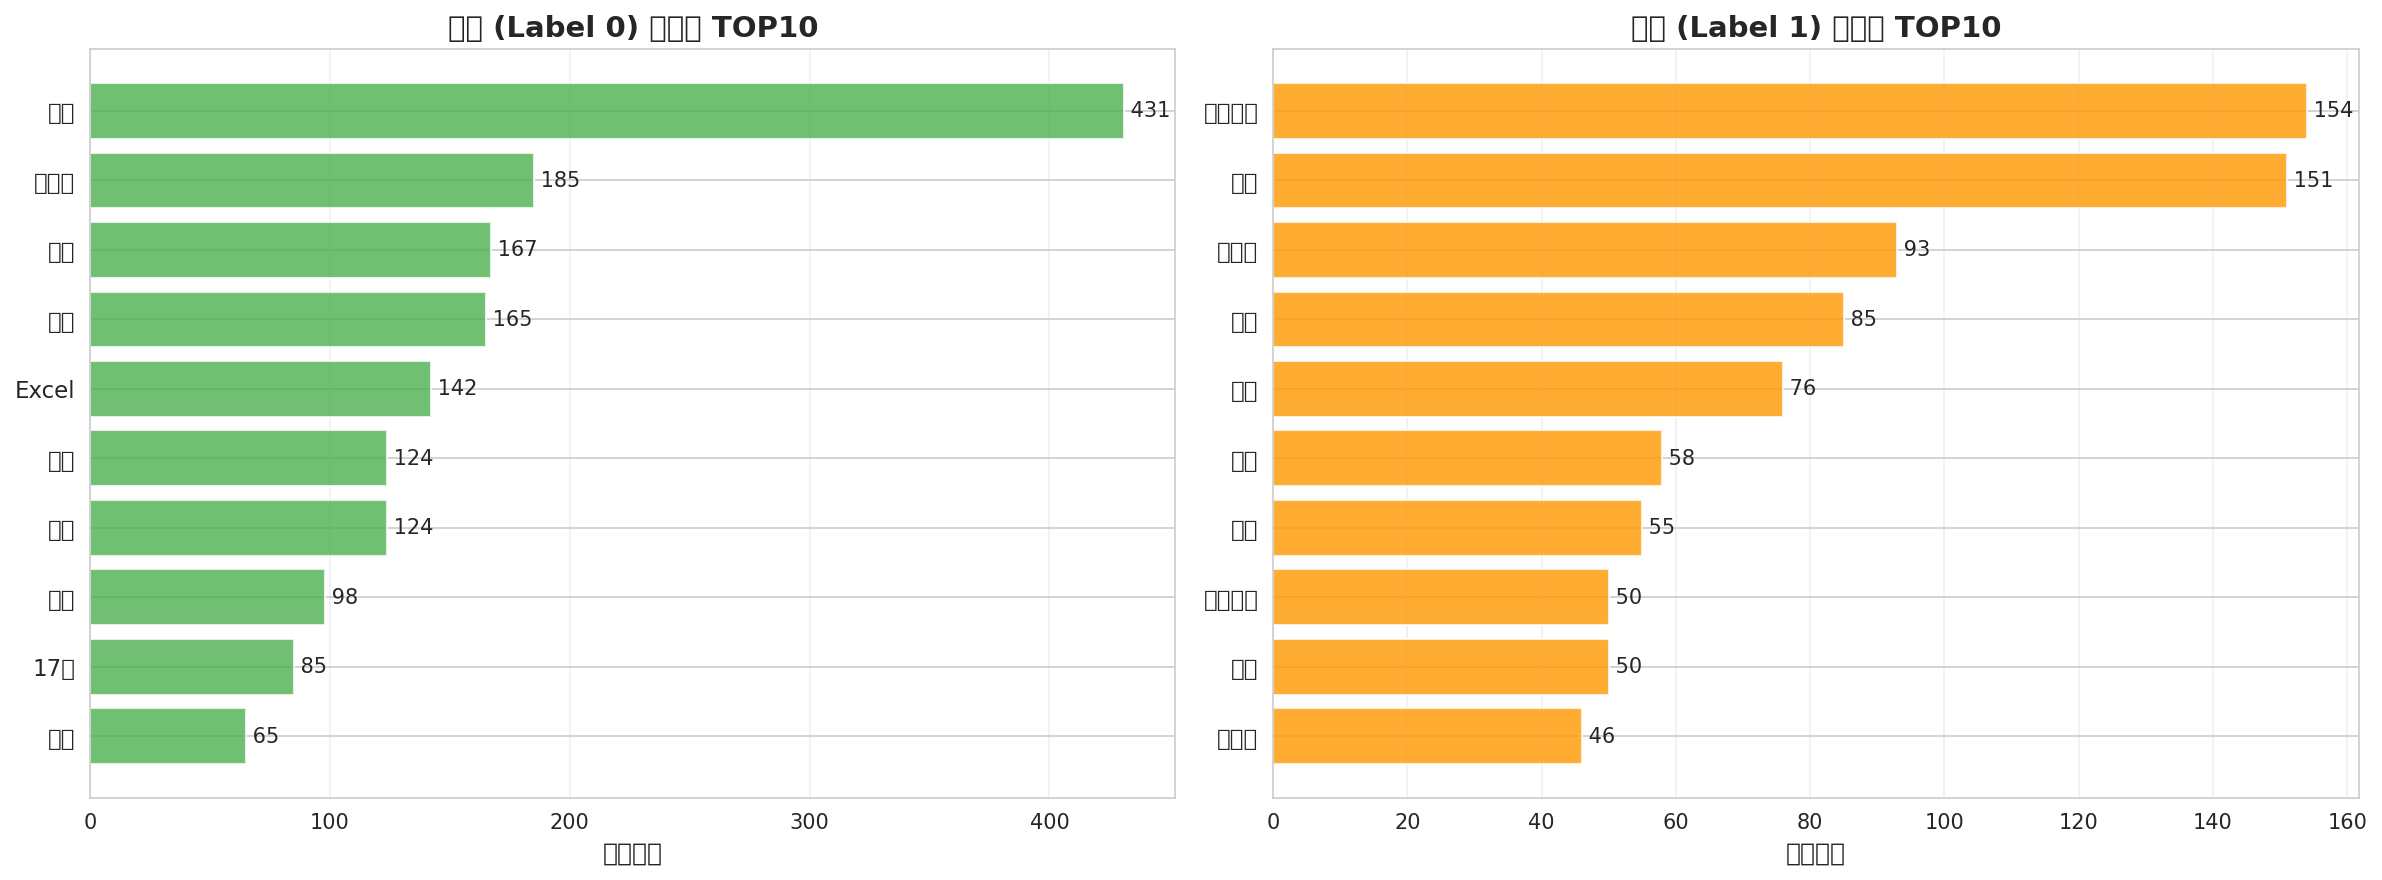
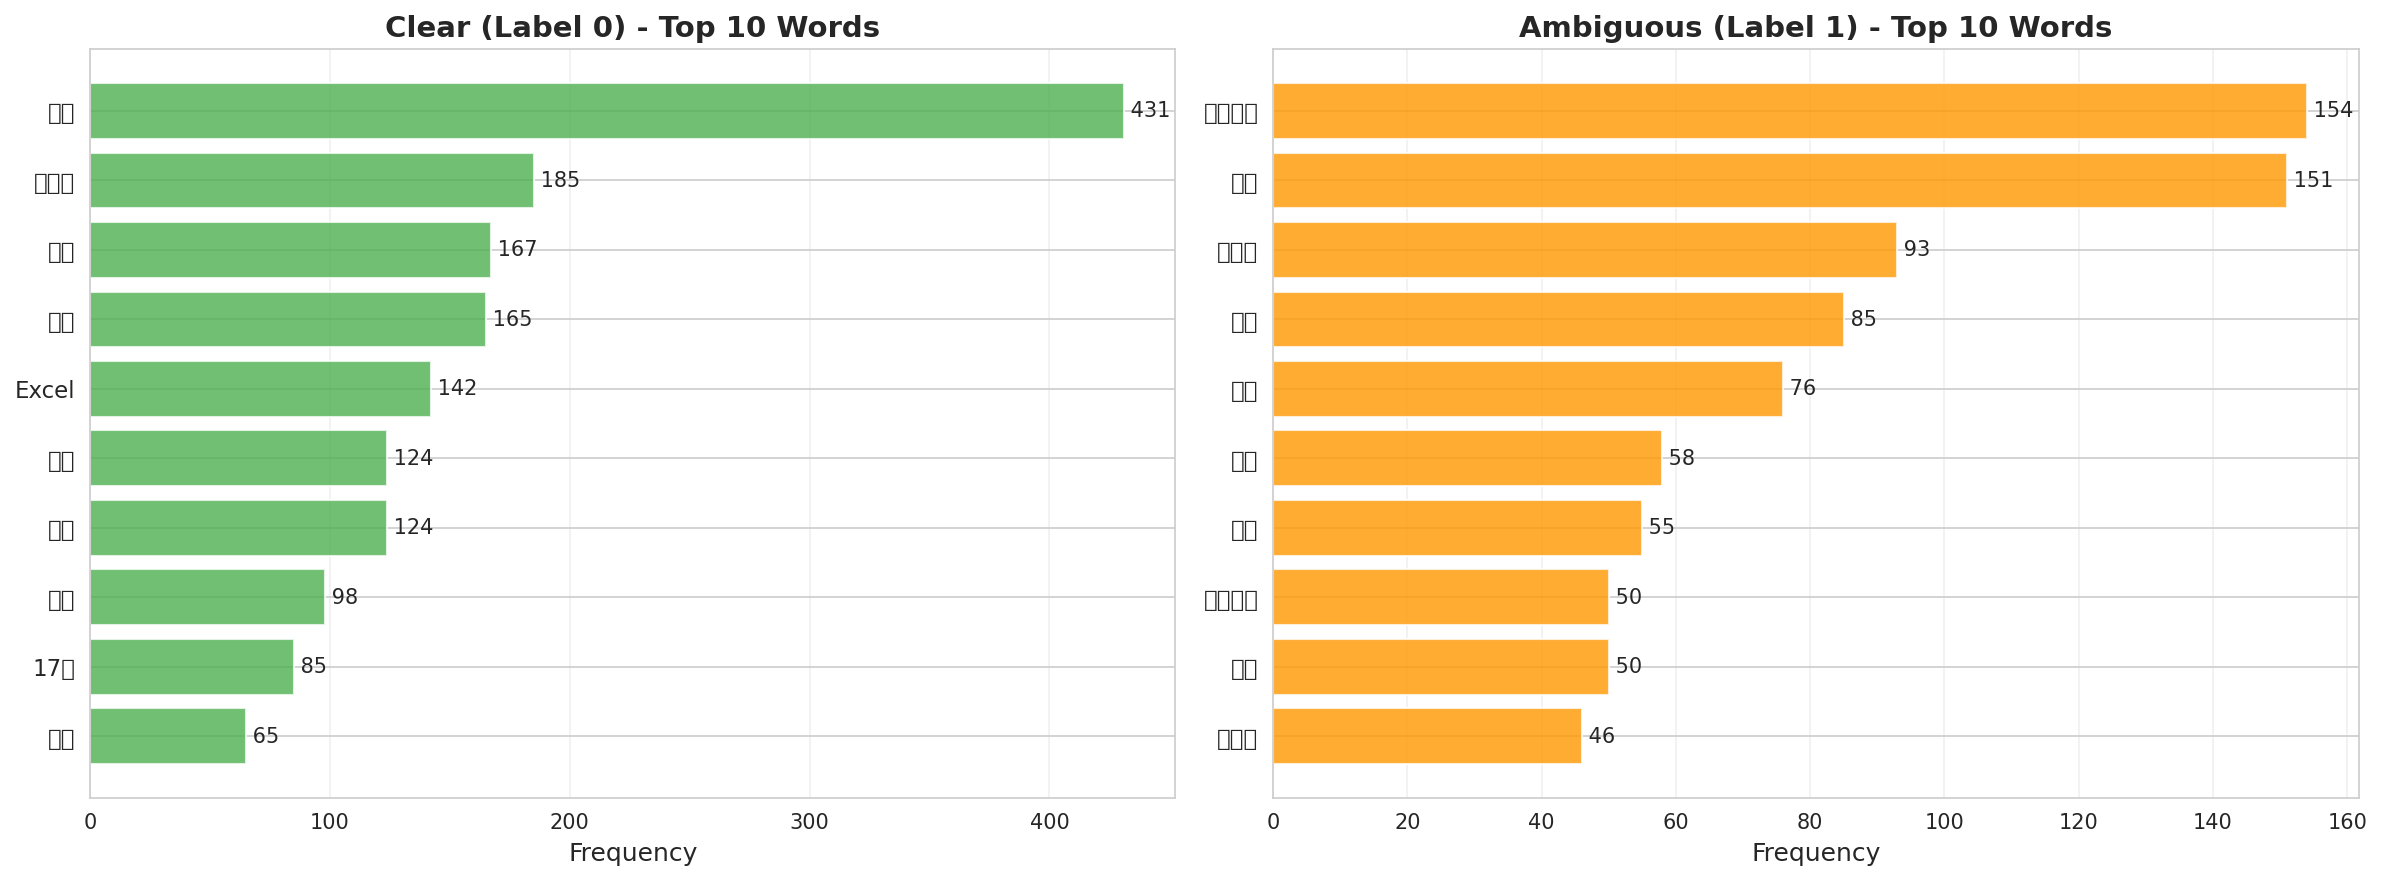
Fix: グラフを英語表示に変更して文字化けを解決
- すべてのグラフラベル・タイトルを英語に変更
- Clear (Label 0) / Ambiguous (Label 1) で表示
- 文字化けの問題を完全に解決
- DejaVu Sansフォントを使用

diff --git a/01_eda.py b/01_eda.py
@@ -11,14 +11,10 @@ from collections import Counter
 from transformers import BertJapaneseTokenizer
 import os
 
-# 日本語フォント設定
-plt.rcParams['font.family'] = 'Noto Sans CJK JP'
-plt.rcParams['font.sans-serif'] = ['Noto Sans CJK JP', 'DejaVu Sans']
-plt.rcParams['axes.unicode_minus'] = False  # マイナス記号の文字化け対策
-
 # Seabornのスタイル設定
 sns.set_style("whitegrid")
 plt.rcParams['figure.figsize'] = (12, 6)
+plt.rcParams['font.family'] = 'DejaVu Sans'
 
 # figuresフォルダの作成
 os.makedirs('figures', exist_ok=True)
@@ -55,12 +51,12 @@ def plot_label_distribution(data_dict):
         
         ax = axes[idx]
         colors = ['#4CAF50', '#FF9800']
-        bars = ax.bar(['明確 (Label 0)', '曖昧 (Label 1)'], 
+        bars = ax.bar(['Clear (Label 0)', 'Ambiguous (Label 1)'], 
                       [label_counts[0], label_counts[1]],
                       color=colors, alpha=0.8)
         
-        ax.set_ylabel('サンプル数', fontsize=12)
-        ax.set_title(f'{name.capitalize()} データセット\n(総数: {len(data)}件)', 
+        ax.set_ylabel('Number of Samples', fontsize=12)
+        ax.set_title(f'{name.capitalize()} Dataset\n(Total: {len(data)} samples)', 
                     fontsize=14, fontweight='bold')
         ax.grid(axis='y', alpha=0.3)
         
@@ -118,21 +114,21 @@ def analyze_text_length(data_dict):
     ax1 = axes[0, 0]
     for name, lengths in all_lengths.items():
         ax1.hist(lengths, bins=20, alpha=0.6, label=name.capitalize(), edgecolor='black')
-    ax1.set_xlabel('文字数', fontsize=12)
-    ax1.set_ylabel('頻度', fontsize=12)
-    ax1.set_title('データセット別 文字数分布', fontsize=14, fontweight='bold')
+    ax1.set_xlabel('Text Length (characters)', fontsize=12)
+    ax1.set_ylabel('Frequency', fontsize=12)
+    ax1.set_title('Text Length Distribution by Dataset', fontsize=14, fontweight='bold')
     ax1.legend()
     ax1.grid(axis='y', alpha=0.3)
     
     # 2. ラベル別の文字数分布
     ax2 = axes[0, 1]
-    ax2.hist(label_lengths[0], bins=20, alpha=0.6, label='明確 (Label 0)', 
+    ax2.hist(label_lengths[0], bins=20, alpha=0.6, label='Clear (Label 0)', 
             color='#4CAF50', edgecolor='black')
-    ax2.hist(label_lengths[1], bins=20, alpha=0.6, label='曖昧 (Label 1)', 
+    ax2.hist(label_lengths[1], bins=20, alpha=0.6, label='Ambiguous (Label 1)', 
             color='#FF9800', edgecolor='black')
-    ax2.set_xlabel('文字数', fontsize=12)
-    ax2.set_ylabel('頻度', fontsize=12)
-    ax2.set_title('ラベル別 文字数分布', fontsize=14, fontweight='bold')
+    ax2.set_xlabel('Text Length (characters)', fontsize=12)
+    ax2.set_ylabel('Frequency', fontsize=12)
+    ax2.set_title('Text Length Distribution by Label', fontsize=14, fontweight='bold')
     ax2.legend()
     ax2.grid(axis='y', alpha=0.3)
     
@@ -144,21 +140,21 @@ def analyze_text_length(data_dict):
     for patch in bp['boxes']:
         patch.set_facecolor('#2196F3')
         patch.set_alpha(0.6)
-    ax3.set_ylabel('文字数', fontsize=12)
-    ax3.set_title('データセット別 文字数の箱ひげ図', fontsize=14, fontweight='bold')
+    ax3.set_ylabel('Text Length (characters)', fontsize=12)
+    ax3.set_title('Text Length Box Plot by Dataset', fontsize=14, fontweight='bold')
     ax3.grid(axis='y', alpha=0.3)
     
     # 4. 箱ひげ図（ラベル別）
     ax4 = axes[1, 1]
     data_for_box2 = [label_lengths[0], label_lengths[1]]
-    bp2 = ax4.boxplot(data_for_box2, labels=['明確 (Label 0)', '曖昧 (Label 1)'],
+    bp2 = ax4.boxplot(data_for_box2, labels=['Clear (Label 0)', 'Ambiguous (Label 1)'],
                       patch_artist=True, showmeans=True)
     bp2['boxes'][0].set_facecolor('#4CAF50')
     bp2['boxes'][1].set_facecolor('#FF9800')
     for patch in bp2['boxes']:
         patch.set_alpha(0.6)
-    ax4.set_ylabel('文字数', fontsize=12)
-    ax4.set_title('ラベル別 文字数の箱ひげ図', fontsize=14, fontweight='bold')
+    ax4.set_ylabel('Text Length (characters)', fontsize=12)
+    ax4.set_title('Text Length Box Plot by Label', fontsize=14, fontweight='bold')
     ax4.grid(axis='y', alpha=0.3)
     
     plt.tight_layout()
@@ -226,7 +222,7 @@ def analyze_frequent_words(data_dict):
     fig, axes = plt.subplots(1, 2, figsize=(16, 6))
     
     colors = ['#4CAF50', '#FF9800']
-    labels_names = ['明確 (Label 0)', '曖昧 (Label 1)']
+    labels_names = ['Clear (Label 0)', 'Ambiguous (Label 1)']
     
     for idx, label in enumerate([0, 1]):
         ax = axes[idx]
@@ -239,8 +235,8 @@ def analyze_frequent_words(data_dict):
             bars = ax.barh(range(len(words)), counts, color=colors[idx], alpha=0.8)
             ax.set_yticks(range(len(words)))
             ax.set_yticklabels(words, fontsize=11)
-            ax.set_xlabel('出現回数', fontsize=12)
-            ax.set_title(f'{labels_names[idx]} 頻出語 TOP10', 
+            ax.set_xlabel('Frequency', fontsize=12)
+            ax.set_title(f'{labels_names[idx]} - Top 10 Words', 
                         fontsize=14, fontweight='bold')
             ax.invert_yaxis()
             ax.grid(axis='x', alpha=0.3)
@@ -313,10 +309,10 @@ def analyze_tokenization(data_dict):
     for name, lengths in token_lengths.items():
         ax1.hist(lengths, bins=30, alpha=0.6, label=name.capitalize(), edgecolor='black')
     ax1.axvline(recommended_max_length, color='red', linestyle='--', linewidth=2,
-               label=f'推奨max_length ({recommended_max_length})')
-    ax1.set_xlabel('トークン数', fontsize=12)
-    ax1.set_ylabel('頻度', fontsize=12)
-    ax1.set_title('データセット別 トークン数分布', fontsize=14, fontweight='bold')
+               label=f'Recommended max_length ({recommended_max_length})')
+    ax1.set_xlabel('Token Length', fontsize=12)
+    ax1.set_ylabel('Frequency', fontsize=12)
+    ax1.set_title('Token Length Distribution by Dataset', fontsize=14, fontweight='bold')
     ax1.legend()
     ax1.grid(axis='y', alpha=0.3)
     
@@ -328,11 +324,11 @@ def analyze_tokenization(data_dict):
         ax2.plot(sorted_lengths, cumulative, label=name.capitalize(), linewidth=2)
     
     ax2.axvline(recommended_max_length, color='red', linestyle='--', linewidth=2,
-               label=f'95パーセンタイル ({recommended_max_length})')
+               label=f'95th percentile ({recommended_max_length})')
     ax2.axhline(95, color='gray', linestyle=':', alpha=0.5)
-    ax2.set_xlabel('トークン数', fontsize=12)
-    ax2.set_ylabel('累積パーセント (%)', fontsize=12)
-    ax2.set_title('トークン数の累積分布', fontsize=14, fontweight='bold')
+    ax2.set_xlabel('Token Length', fontsize=12)
+    ax2.set_ylabel('Cumulative Percentage (%)', fontsize=12)
+    ax2.set_title('Cumulative Token Length Distribution', fontsize=14, fontweight='bold')
     ax2.legend()
     ax2.grid(alpha=0.3)
     

diff --git a/eda_report.md b/eda_report.md
@@ -83,4 +83,4 @@
 
 ---
 
-**作成日**: 2025-12-12 11:29:38
+**作成日**: 2025-12-12 11:52:08
